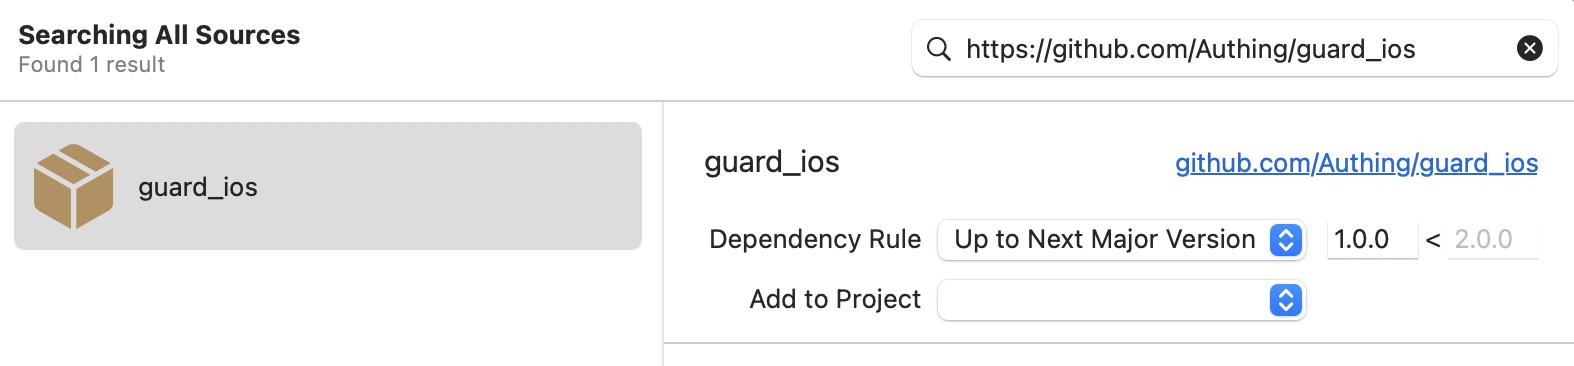
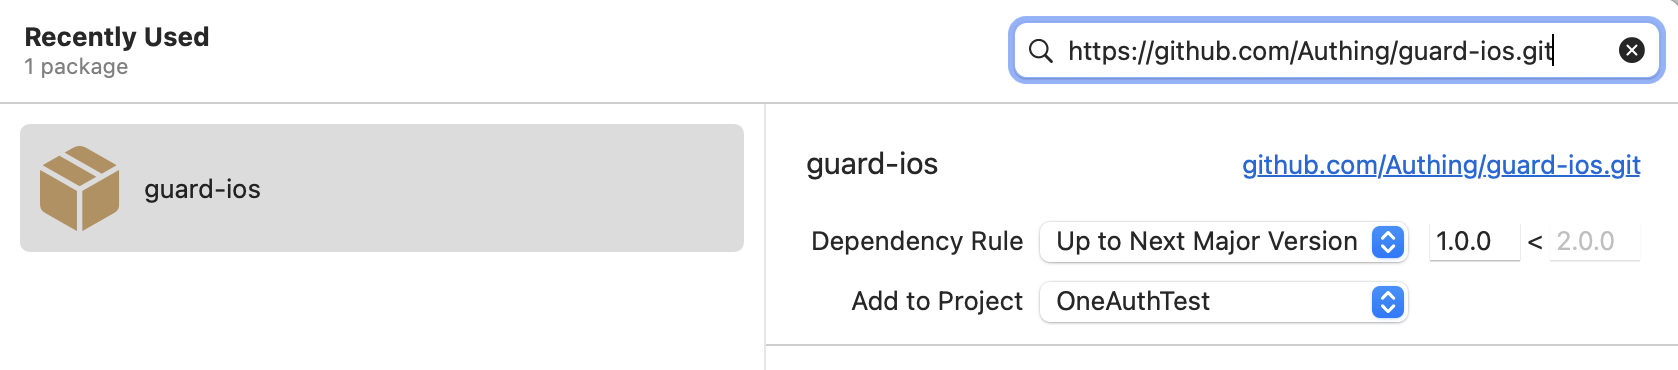
modify path in docs

diff --git a/doc/index_zh.md b/doc/index_zh.md
@@ -8,7 +8,7 @@ Authing guard 是一个面向身份认证领域的业务组件库，该组件库
 
 1. 通过 Swift Package Manager 引入依赖
 
-https://github.com/Authing/guard_ios
+https://github.com/Authing/guard-ios
 
 ![](./images/add_guard.png)
 

diff --git a/doc/index_en.md b/doc/index_en.md
@@ -8,7 +8,7 @@ Authing guard is a UI component library for identity applications. It provides s
 
 1. add Swift Package
 
-https://github.com/Authing/guard_ios
+https://github.com/Authing/guard-ios
 
 ![](./images/add_guard.png)
 

diff --git a/doc/topics/oneauth.md b/doc/topics/oneauth.md
@@ -2,7 +2,7 @@
 
 1. 通过 Swift Package Manager，添加 2 个依赖
 
-https://github.com/Authing/guard_ios
+https://github.com/Authing/guard-ios
 
 ![](./../images/add_guard.png)
 
